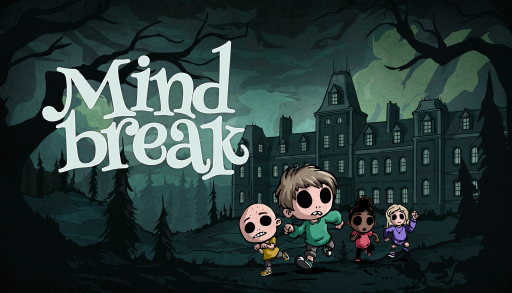
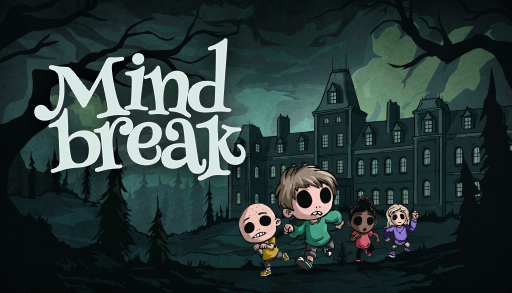
Updated trailer and capsule image

diff --git a/_site/mindbreak/index.html b/_site/mindbreak/index.html
@@ -26,7 +26,7 @@
         </div>
         
       <video autoplay muted loop playsinline>
-        <source src="/assets/video/mindbreak_announcement_trailer.mp4" type="video/mp4">
+        <source src="/assets/video/mindbreak_demorelease_trailer.mp4" type="video/mp4">
         Your browser does not support the video tag.
       </video>
       